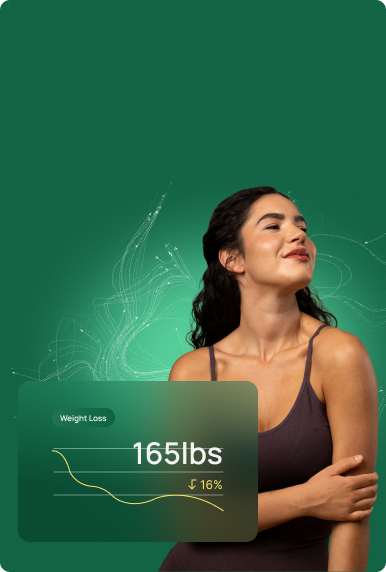
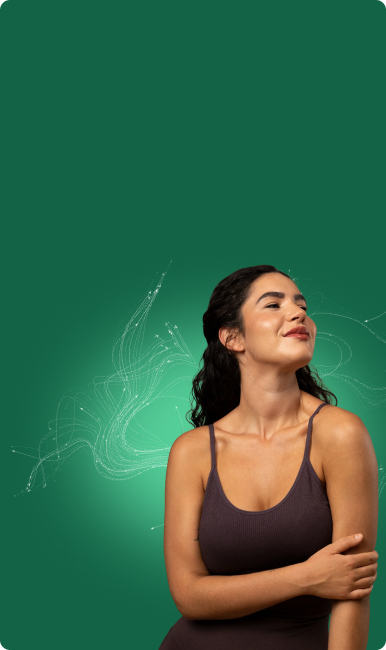
update image for category

diff --git a/public/Themes/Thrivewellrx.Theme.EpiqScripts/assets/scss/pages/_category.scss b/public/Themes/Thrivewellrx.Theme.EpiqScripts/assets/scss/pages/_category.scss
@@ -21,7 +21,7 @@
 		}
 
 		&__testosterone {
-			background: url('../img/bg/category-testosterone.jpg') no-repeat center center;
+			background: url('../img/bg/category-testosterone-mob.jpg') no-repeat center center;
 
 			@media (min-width: 768px) {
 				background: url('../img/bg/category-testosterone.jpg') no-repeat center center;
@@ -31,7 +31,7 @@
 		}
 
 		&__sexual-health {
-			background: url('../img/bg/category-sexual-health.jpg') no-repeat center center;
+			background: url('../img/bg/category-sexual-health-mob.jpg') no-repeat center center;
 
 			@media (min-width: 768px) {
 				background: url('../img/bg/category-sexual-health.jpg') no-repeat center center;
@@ -41,7 +41,7 @@
 		}
 
 		&__pre-workout {
-			background: url('../img/bg/category-pre-workout.jpg') no-repeat center center;
+			background: url('../img/bg/category-pre-workout-mob.jpg') no-repeat center center;
 
 			@media (min-width: 768px) {
 				background: url('../img/bg/category-pre-workout.jpg') no-repeat center center;
@@ -51,7 +51,7 @@
 		}
 
 		&__hormone-health {
-			background: url('../img/bg/category-hormone-health.jpg') no-repeat center center;
+			background: url('../img/bg/category-hormone-health-mob.jpg') no-repeat center center;
 
 			@media (min-width: 768px) {
 				background: url('../img/bg/category-hormone-health.jpg') no-repeat center center;
@@ -61,7 +61,7 @@
 		}
 
 		&__anti-aging {
-			background: url('../img/bg/category-anti-aging.jpg') no-repeat center center;
+			background: url('../img/bg/category-anti-aging-mob.jpg') no-repeat center center;
 
 			@media (min-width: 768px) {
 				background: url('../img/bg/category-anti-aging.jpg') no-repeat center center;
@@ -71,7 +71,7 @@
 		}
 
 		&__sleep {
-			background: url('../img/bg/category-sleep.jpg') no-repeat center center;
+			background: url('../img/bg/category-sleep-mob.jpg') no-repeat center center;
 
 			@media (min-width: 768px) {
 				background: url('../img/bg/category-sleep.jpg') no-repeat center center;
@@ -81,7 +81,7 @@
 		}
 
 		&__sterile-injections {
-			background: url('../img/bg/category-sterile-injections.jpg') no-repeat center center;
+			background: url('../img/bg/category-sterile-injections-mob.jpg') no-repeat center center;
 
 			@media (min-width: 768px) {
 				background: url('../img/bg/category-sterile-injections.jpg') no-repeat center center;
@@ -91,10 +91,10 @@
 		}
 
 		&__hair-growth {
-			background: url('../img/bg/category-hair-growth.jpg') no-repeat center center;
+			background: url('../img/bg/hair-growth-mob.jpg') no-repeat center center;
 
 			@media (min-width: 768px) {
-				background: url('../img/bg/category-hair-growth.jpg') no-repeat center center;
+				background: url('../img/bg/hair-growth.jpg') no-repeat center center;
 			}
 
 			background-size: cover;
